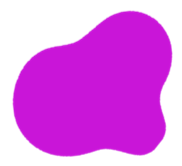
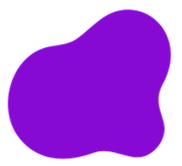
fully working flashcards

diff --git a/lib/Flashcards/flashCard.dart b/lib/Flashcards/flashCard.dart
@@ -22,6 +22,9 @@ class FlashCard extends StatefulWidget {
 class _FlashCardState extends State<FlashCard> {
   @override
   Widget build(BuildContext context) {
+    setTtsConfig();
+    speak();
+
     List<Color> colors = const [
       Color(0xff5CD978),
       Color(0xffD9825C),
@@ -31,8 +34,6 @@ class _FlashCardState extends State<FlashCard> {
       Color(0xffFF3C3C),
       Color(0xffC915D8),
     ];
-
-    setTtsConfig();
 
     return SizedBox(
       width: MediaQuery.of(context).size.width - 80,
@@ -46,7 +47,7 @@ class _FlashCardState extends State<FlashCard> {
                 padding: const EdgeInsets.fromLTRB(0, 20, 20, 0),
                 child: IconButton(
                   onPressed: () {
-                    flutterTts.speak("I am speaking");
+                    speak();
                   },
                   icon: const Icon(
                     Icons.volume_up_rounded,
@@ -136,5 +137,18 @@ class _FlashCardState extends State<FlashCard> {
         ),
       ),
     );
+  }
+
+  void speak() {
+    String toSpeak = "";
+    if (widget.from == "numbers") {
+      toSpeak = (widget.content as TextPicCard).bottomText;
+    } else if (widget.from == "alphabets") {
+      toSpeak = (widget.content as String).substring(0, 1);
+    } else {
+      toSpeak = (widget.content as PicTextCard).text;
+    }
+
+    flutterTts.speak(toSpeak);
   }
 }

diff --git a/lib/Flashcards/cardContent.dart b/lib/Flashcards/cardContent.dart
@@ -101,7 +101,7 @@ class CardContent {
     ];
   }
 
-  //function: create animals list
+  //function: create colours list
   List<PicTextCard> coloursList() {
     return [
       PicTextCard(
@@ -127,7 +127,12 @@ class CardContent {
       PicTextCard(
         text: "Purple",
         imgPath: "assets/images/purple.png",
-        color: const Color(0xffC915D8),
+        color: const Color(0xff8709D4),
+      ),
+      PicTextCard(
+        text: "Orange",
+        imgPath: "assets/images/orangee.png",
+        color: const Color(0xffFF8929),
       ),
     ];
   }

diff --git a/lib/tts.dart b/lib/tts.dart
@@ -1,3 +1,5 @@
+import 'dart:math';
+
 import 'package:flutter_tts/flutter_tts.dart';
 
 final FlutterTts flutterTts = FlutterTts();
@@ -5,5 +7,5 @@ final FlutterTts flutterTts = FlutterTts();
 setTtsConfig() {
   flutterTts.setSpeechRate(0.4);
   flutterTts.setVolume(1);
-  flutterTts.setLanguage("en-UK");
+  flutterTts.setLanguage("en-US");
 }
